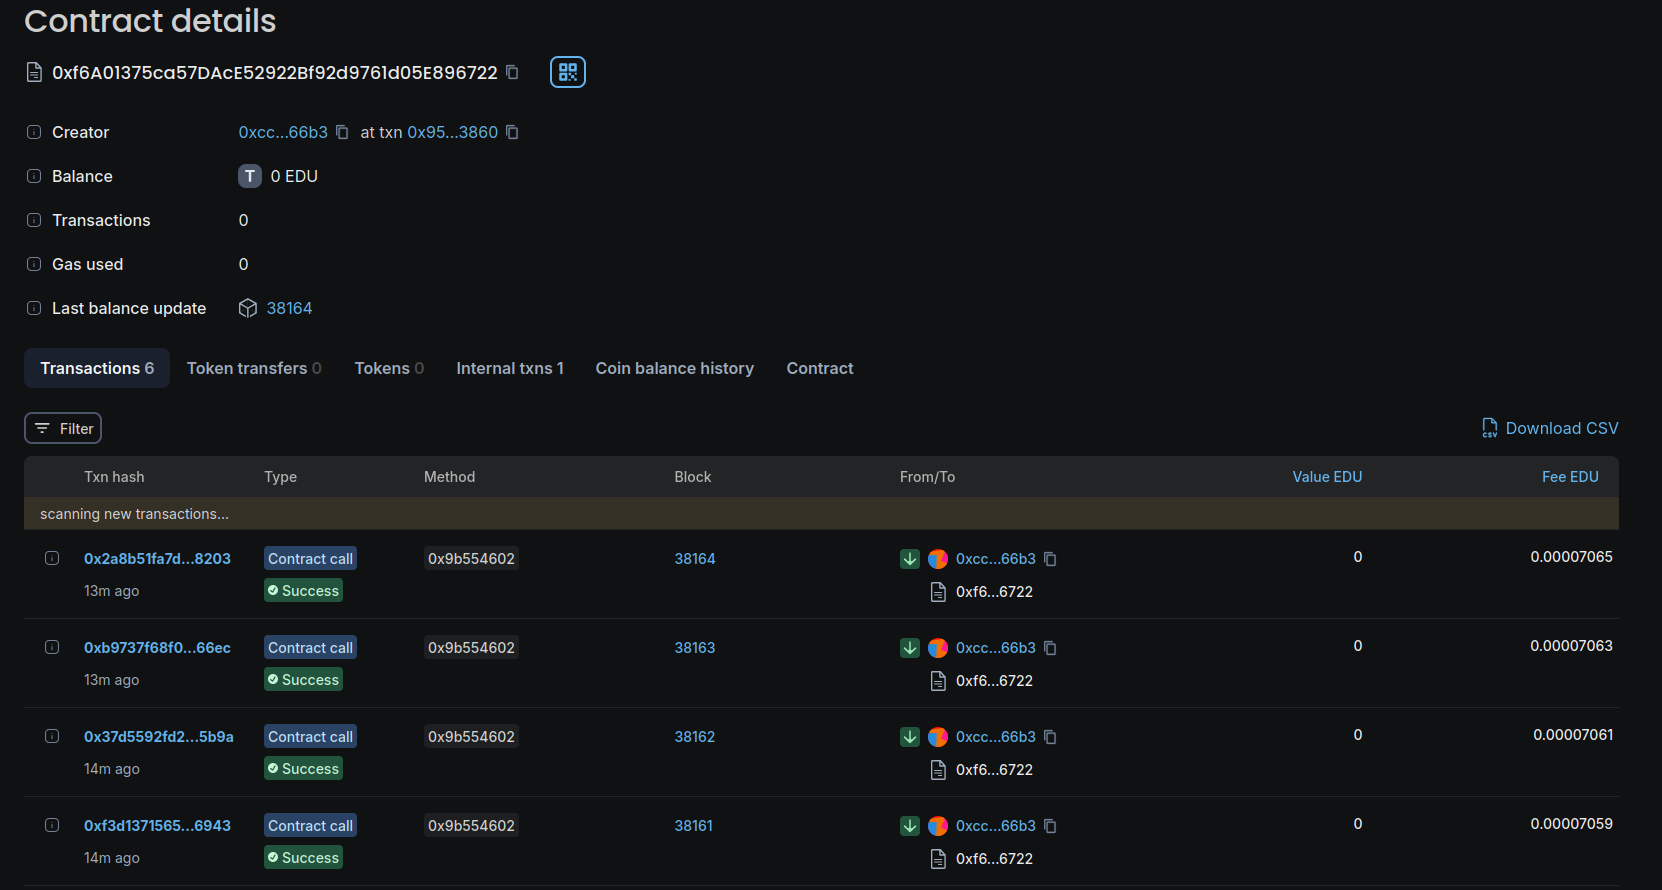
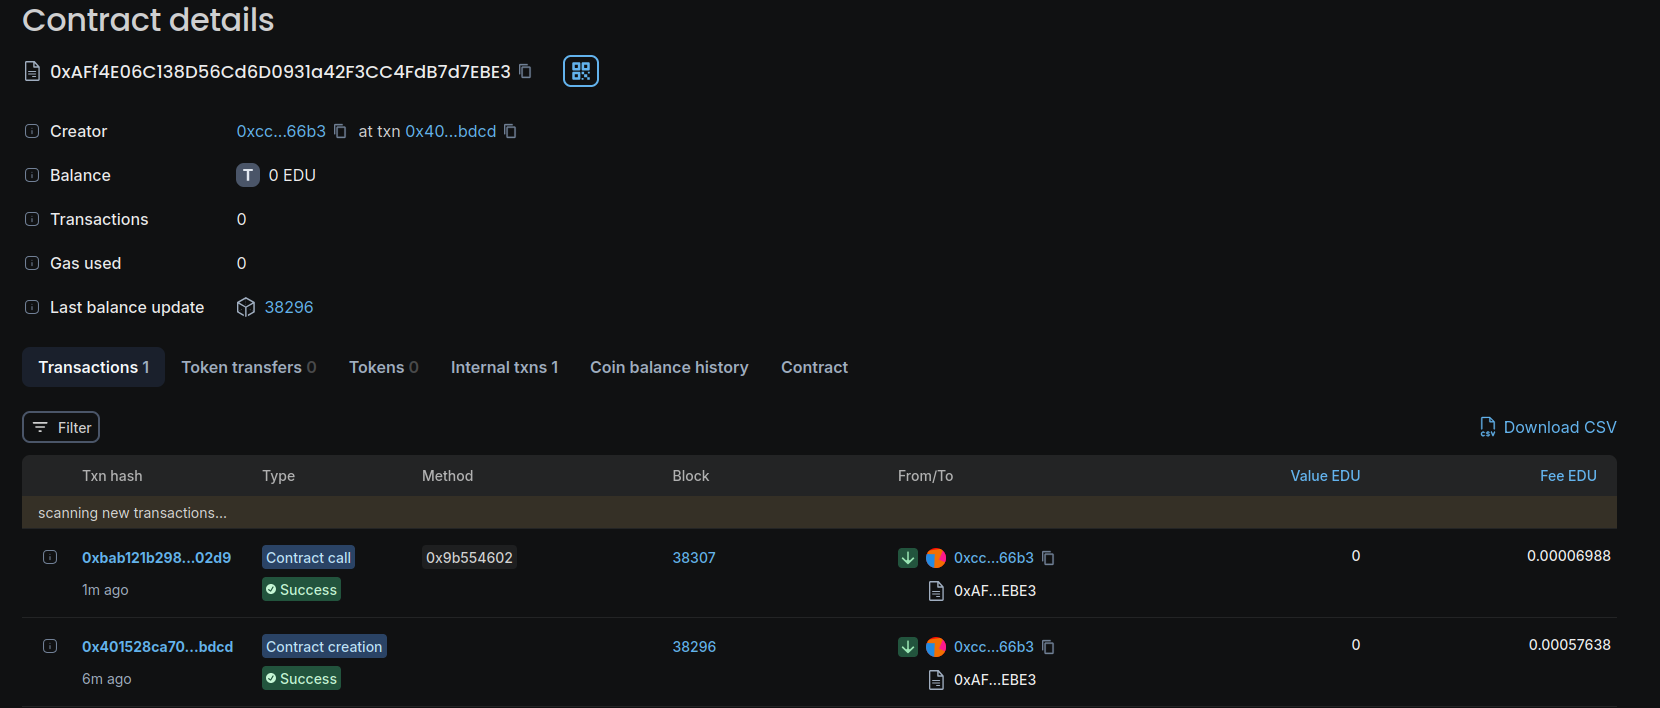
hi

diff --git a/app.js b/app.js
@@ -5,8 +5,21 @@ window.addEventListener('load', async () => {
         try {
             await window.ethereum.request({ method: 'eth_requestAccounts' });
 
-            const contractAddress = '0xf6a01375ca57dace52922bf92d9761d05e896722';
+            const contractAddress = '0xaff4e06c138d56cd6d0931a42f3cc4fdb7d7ebe3';
             const abi = [
+                {
+                    "inputs": [
+                        {
+                            "internalType": "bytes32",
+                            "name": "keyHash",
+                            "type": "bytes32"
+                        }
+                    ],
+                    "name": "submitKey",
+                    "outputs": [],
+                    "stateMutability": "nonpayable",
+                    "type": "function"
+                },
                 {
                     "inputs": [],
                     "stateMutability": "nonpayable",
@@ -66,25 +79,12 @@ window.addEventListener('load', async () => {
                 {
                     "inputs": [
                         {
-                            "internalType": "bytes32",
-                            "name": "keyHash",
-                            "type": "bytes32"
-                        }
-                    ],
-                    "name": "submitKey",
-                    "outputs": [],
-                    "stateMutability": "nonpayable",
-                    "type": "function"
-                },
-                {
-                    "inputs": [
-                        {
                             "internalType": "address",
                             "name": "",
                             "type": "address"
                         }
                     ],
-                    "name": "userProgress",
+                    "name": "userUniqueKeyCount",
                     "outputs": [
                         {
                             "internalType": "uint256",
@@ -97,9 +97,7 @@ window.addEventListener('load', async () => {
                 }
             ];
             
-
             const contract = new web3.eth.Contract(abi, contractAddress);
-
             document.getElementById('submitKey').addEventListener('click', async () => {
                 const key = document.getElementById('keyInput').value;
                 const keyHash = web3.utils.keccak256(key);

diff --git a/README.md b/README.md
@@ -39,5 +39,5 @@ This project is licensed under the MIT License - see the LICENSE file for detail
 ## Deployment
 
 - Chain Name: EduChain Open Campus
-- Contract ID: 0xf6a01375ca57dace52922bf92d9761d05e896722
+- Contract ID: 0xaff4e06c138d56cd6d0931a42f3cc4fdb7d7ebe3
 ![contract](Contractdetails.png)
